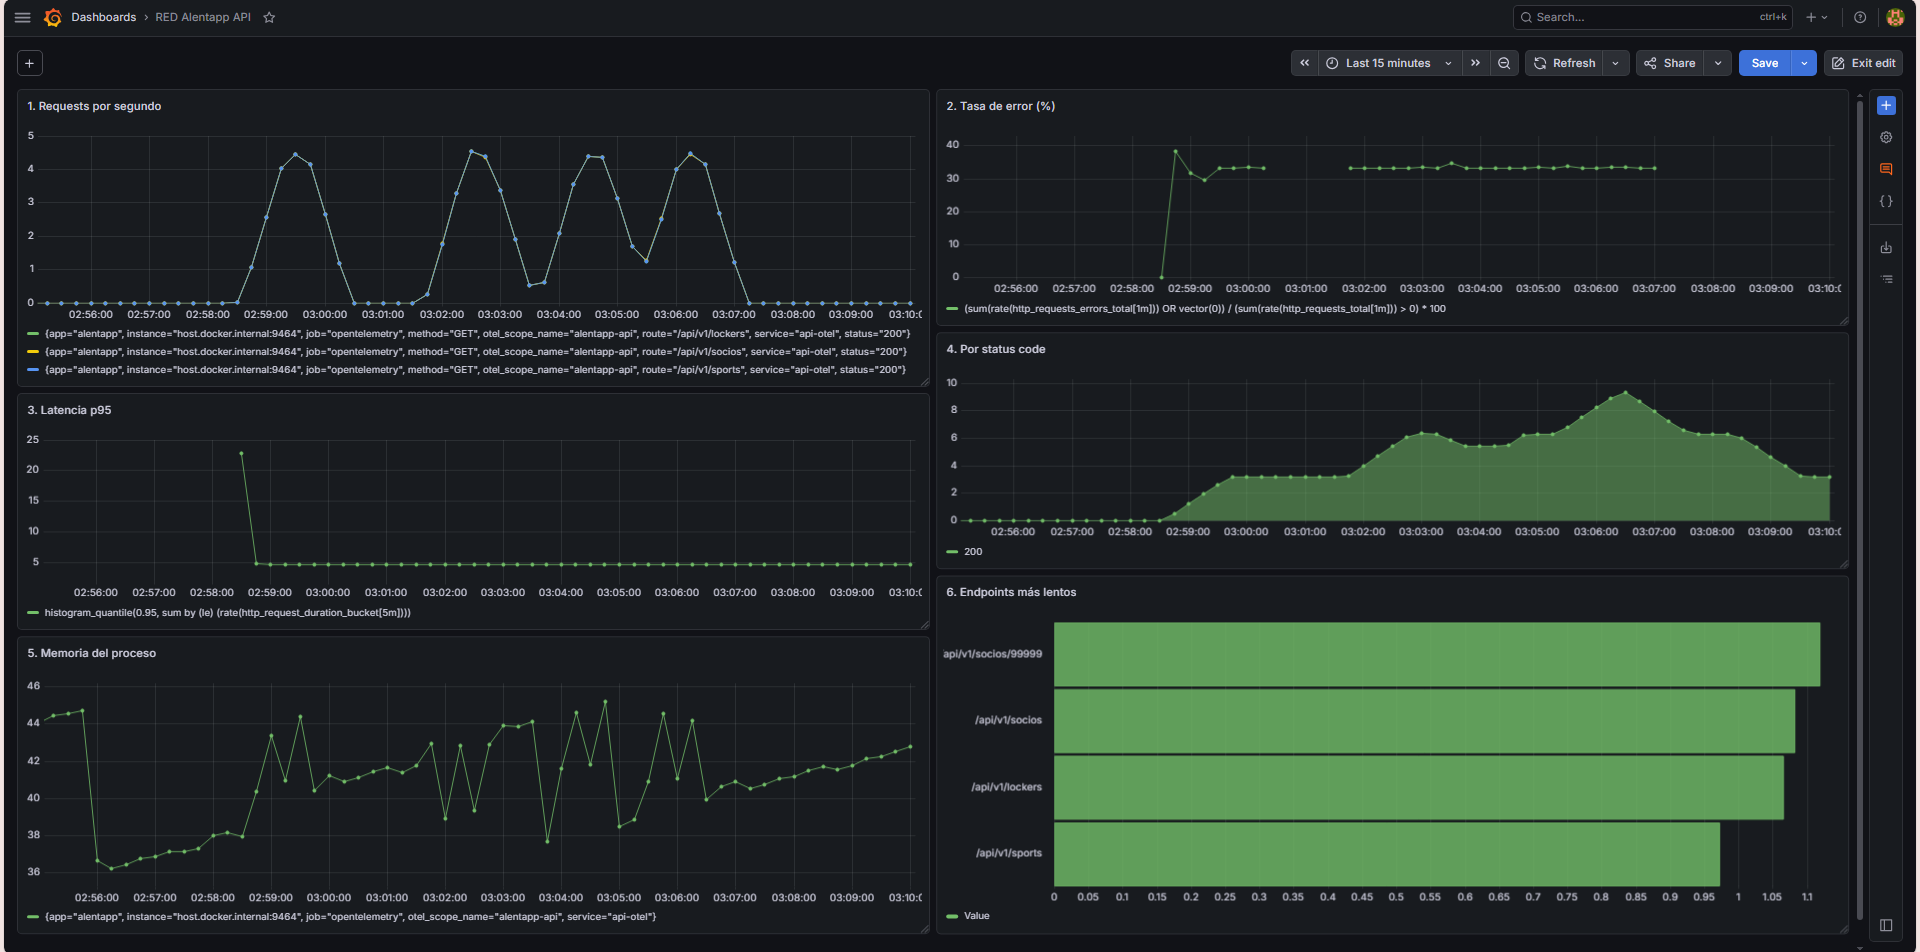
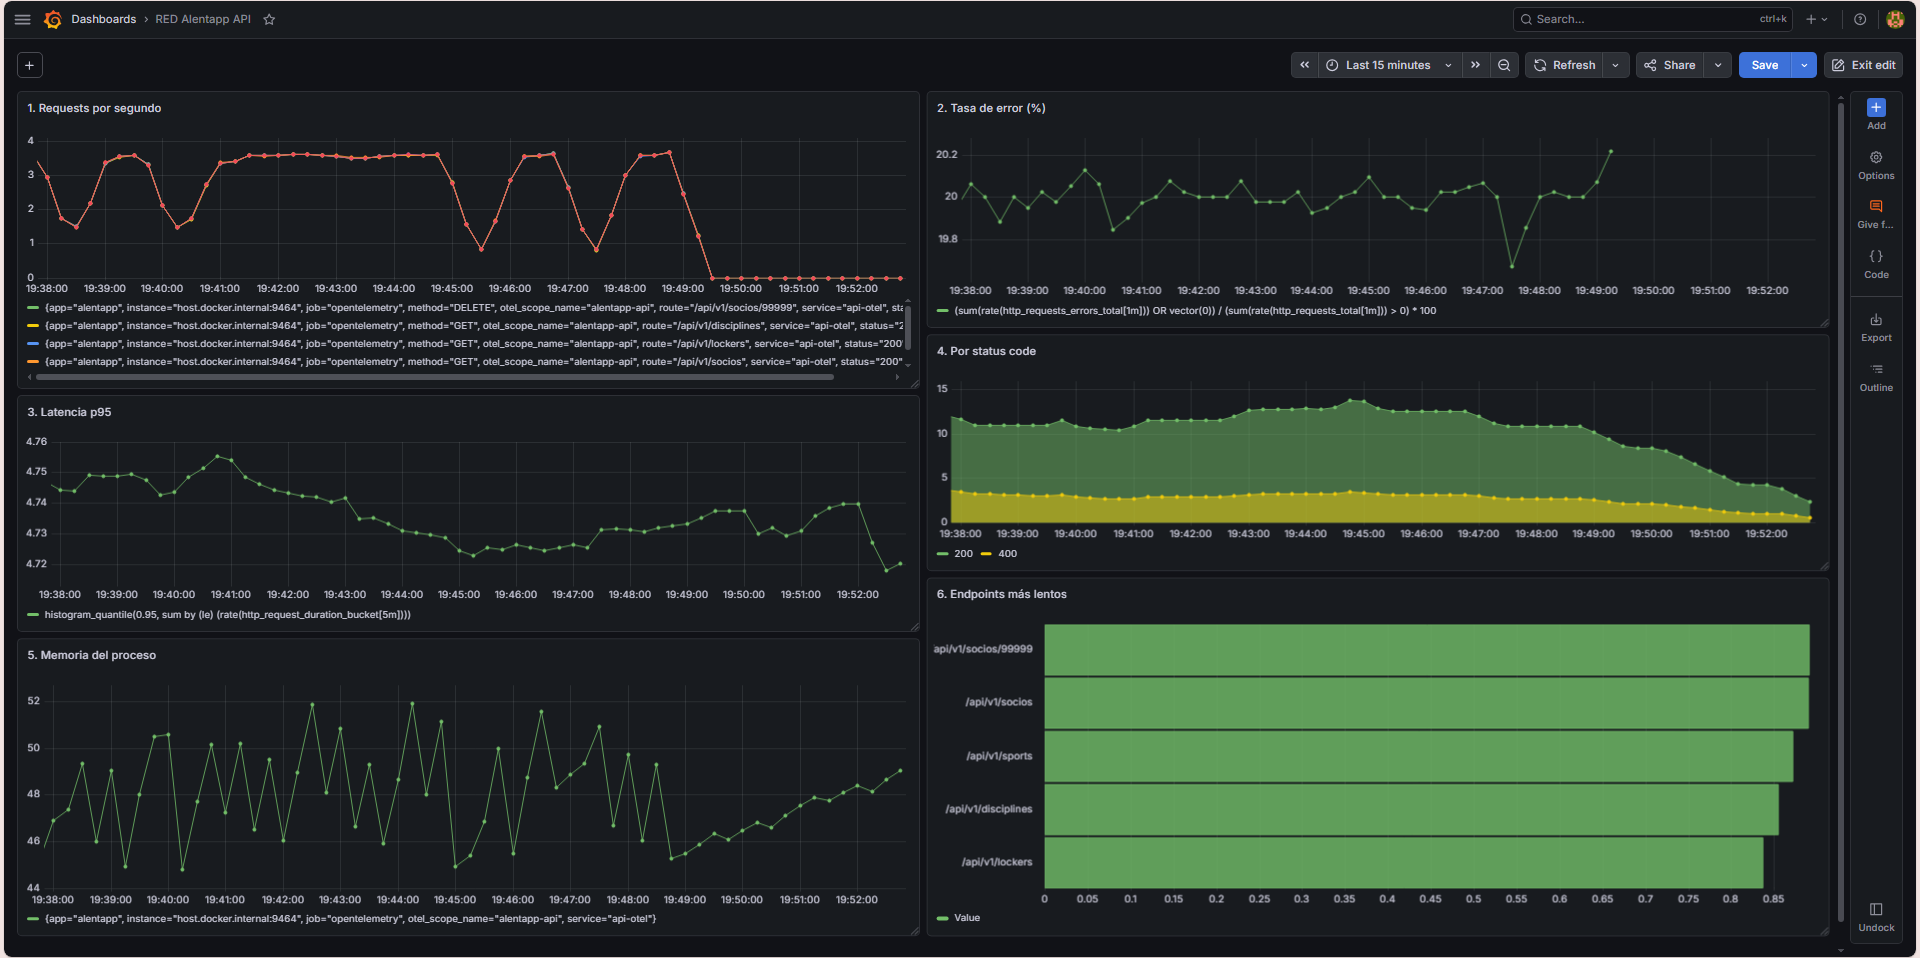
docs: actualiza informe con validacion de metricas y seccion de desafios

diff --git a/docs/produccion/informe-grupo1.md b/docs/produccion/informe-grupo1.md
@@ -49,8 +49,37 @@ comando: curl localhost/
 
 ![Contenedores healthy](./assets/contenedores-estado.png)
 
-## 4.3 Verificación de Observabilidad (Dashboard RED)
+## 4.3 Verificación de Observabilidad
 
+### Detalle de validación técnica de los requerimientos
+
+**1. OpenTelemetry exporta métricas en :9464/metrics**
+Se verificó accediendo directamente al endpoint expuesto por el SDK. Se observan las métricas crudas (como `http_requests_total` o `http_request_duration`) listas para ser recolectadas.
+
+![OpenTelemetry Metrics](./assets/opentelemetry-metrics.png)
+
+**2. Prometheus scrapea correctamente el endpoint OTLP**
+Se analizó el panel de *Targets* de la interfaz de Prometheus (`localhost:9090/targets`). Se comprobó que el job configurado en `prometheus.yml` está leyendo el puerto 9464 del contenedor de la API y reporta un estado de salud **UP**.
+
+![Prometheus Targets](./assets/prometheus-targets.png)
+
+**3. Grafana tiene al menos un datasource Prometheus configurado**
+Se estableció la conexión interna entre el contenedor de Grafana y el de Prometheus a través de la URL `http://prometheus:9090`. La prueba de conexión arrojó un resultado exitoso.
+
+![Grafana Datasource 1](./assets/grafana-datasource-1.png)
+
+![Grafana Datasource 2](./assets/grafana-datasource-2.png)
+
+**4. El dashboard RED tiene 6 paneles funcionales**
+Se importó el esquema JSON del dashboard validando que los paneles de Requests por segundo, Tasa de error, Latencia, Status code, Memoria y Endpoints más lentos ejecutan sus consultas PromQL de manera exitosa y sin errores de datos vacíos ("No data").
+
+**5. Los gráficos responden al tráfico generado**
+Al inyectar tráfico masivo mediante el bucle de consultas *curl*, los gráficos en formato *Time series* abandonaron su estado de reposo y dibujaron la fluctuación del tráfico en tiempo real de forma inmediata.
+
+**6. Las métricas de error reflejan los 4xx/5xx**
+Al forzar deliberadamente un error de negocio (Intentar eliminar un socio inexistente con código 404), la métrica generada por `errorCounter` fue capturada por Grafana, elevando el gráfico de la Tasa de error de manera proporcional al total de las consultas.
+
+*(La evidencia visual que respalda el correcto funcionamiento descrito en los puntos 4, 5 y 6 se encuentra en la captura general del Dashboard RED adjunta al final de este apartado).*
 
 ## 4.4 Documentación de decisiones
 
@@ -79,9 +108,9 @@ Durante el desarrollo de la implementación y verificación, el equipo se enfren
 * *(Completar con los desafíos encontrados con TypeScript en el SDK, y la creación de métricas personalizadas en los controladores)*
 
 #### Prometheus y Dashboard Grafana
-* **Tolerancia cero a errores de sintaxis (YAML):** Durante la configuración inicial de `prometheus.yml`, un error mínimo de indentación en la propiedad `labels` provocó que el contenedor de Prometheus fallara silenciosamente al iniciar. Esto derivó en un error de DNS (`no such host`) en Grafana que requirió auditar el estado de los contenedores para aislar la falla en el motor de recolección.
+* **Tolerancia cero a errores de sintaxis (YAML):** Durante la configuración inicial de `prometheus.yml`, un error mínimo de indentación en la propiedad `labels` provocó que el contenedor de Prometheus fallara silenciosamente al iniciar. Esto derivó en un error de DNS (`no such host`) en Grafana que requirió revisar el estado de los contenedores para aislar la falla.
 * **Manejo de valores nulos en PromQL:** Al diseñar el panel de "Tasa de error", el gráfico arrojaba "No data" cuando la API operaba de forma 100% sana. Se debió investigar y modificar la consulta matemática agregando una validación de fallback (`OR vector(0)` y `> 0`) para evitar que la base de datos de Prometheus colapsara al intentar ejecutar una división por cero.
-* **Saturación de renderizado en paneles:** El panel de "Endpoints más lentos" inicialmente intentaba renderizar el historial continuo del Top K, generando una saturación visual incomprensible. Se resolvió la complicación modificando la estructura de la consulta en Grafana a formato `Table` y forzando una evaluación `Instant`, permitiendo visualizar únicamente la fotografía del estado actual.
+* **Saturación de renderizado en paneles:** El panel de "Endpoints más lentos" inicialmente intentaba renderizar el historial continuo del Top K, generando una saturación visual incomprensible. Se resolvió la complicación modificando la estructura de la consulta en Grafana a formato `Table` y forzando una evaluación `Instant`, permitiendo visualizar únicamente la fotografía del estado actual de cinco endpoints.
 
 ---
 
@@ -101,6 +130,7 @@ for i in {1..300}; do
   curl -s http://localhost:3000/api/v1/socios > /dev/null
   curl -s http://localhost:3000/api/v1/sports > /dev/null
   curl -s http://localhost:3000/api/v1/lockers > /dev/null
+  curl -s http://localhost:3000/api/v1/disciplines > /dev/null
   
   # Tráfico roto (DELETE a un ID que no existe -> Error 400/404 real)
   curl -X DELETE -s http://localhost:3000/api/v1/socios/99999 > /dev/null
@@ -112,8 +142,8 @@ done
 Al analizar la captura del dashboard en tiempo real, se validaron los siguientes comportamientos:
 
 1. **Requests por segundo:** La métrica `rate` capturó instantáneamente el inicio del ataque de tráfico simulado, graficando el incremento sostenido de peticiones hacia la API.
-2. **Tasa de error (%):** El panel reflejó la división arquitectónica entre los contadores. El script enviaba 1 error por cada 3 éxitos. Como el contador `http_requests_total` registró estrictamente los éxitos, la fórmula ejecutada por Grafana (`1 error / 3 éxitos`) muestra una tasa de fallo que se estabilizó de forma precisa en el ~33%.
+2. **Tasa de error (%):** El panel reflejó la exactitud de la instrumentación. El script de estrés enviaba 1 error por cada ciclo de 5 peticiones totales (4 éxitos y 1 fallo). La fórmula PromQL ejecutada por Grafana calculó correctamente esta proporción absoluta ($1 / 5$), mostrando una tasa de fallo que se estabilizó de forma precisa y constante en el 20%.
 3. **Latencia p95:** El histograma calculó correctamente la *Duration*, permitiendo observar que, a pesar de la ráfaga de peticiones, el 95% de los usuarios experimentaron tiempos de respuesta óptimos de unos pocos milisegundos.
-4. **Por status code:** El panel agrupó exitosamente las peticiones de `http_requests_total`. Se visualizan exclusivamente los códigos de éxito (ej. 200), demostrando que la instrumentación separó correctamente los códigos de advertencia (4xx/5xx) hacia el contador independiente de errores.
+4. **Por status code:** El panel agrupó exitosamente la totalidad de las peticiones registradas en `http_requests_total` utilizando la etiqueta `status`. El panel renderiza un gráfico de área apilada (*Stacked Area*) que permite visualizar la proporción exacta del tráfico: una base dominante de peticiones exitosas (códigos 200/201/204) y, superpuesta a esta, la franja correspondiente a los errores (códigos 400/404) inyectados por el script.
 5. **Memoria del proceso:** El medidor de memoria demuestra que la API es estable a nivel de recursos. Durante la prueba de estrés, el consumo de RAM no se disparó sin control ni colapsó el servidor, sino que se mantuvo en niveles normales y equilibrados, confirmando que la aplicación libera correctamente la memoria que ya no utiliza (sin fugas de memoria).
-6. **Endpoints más lentos:** La función de agregación agrupó los promedios de tiempo por cada `route`, generando un top 5 en formato de tabla que permitió visualizar con precisión la latencia de, en este caso, las 4 rutas específicas que fueron sometidas a la prueba de carga.
+6. **Endpoints más lentos:** La función de agregación agrupó los promedios de tiempo por cada `route`, generando un top 5 en formato de tabla que permitió visualizar con precisión la latencia de los múltiples endpoints que fueron sometidos a la prueba de carga de forma simultánea.
